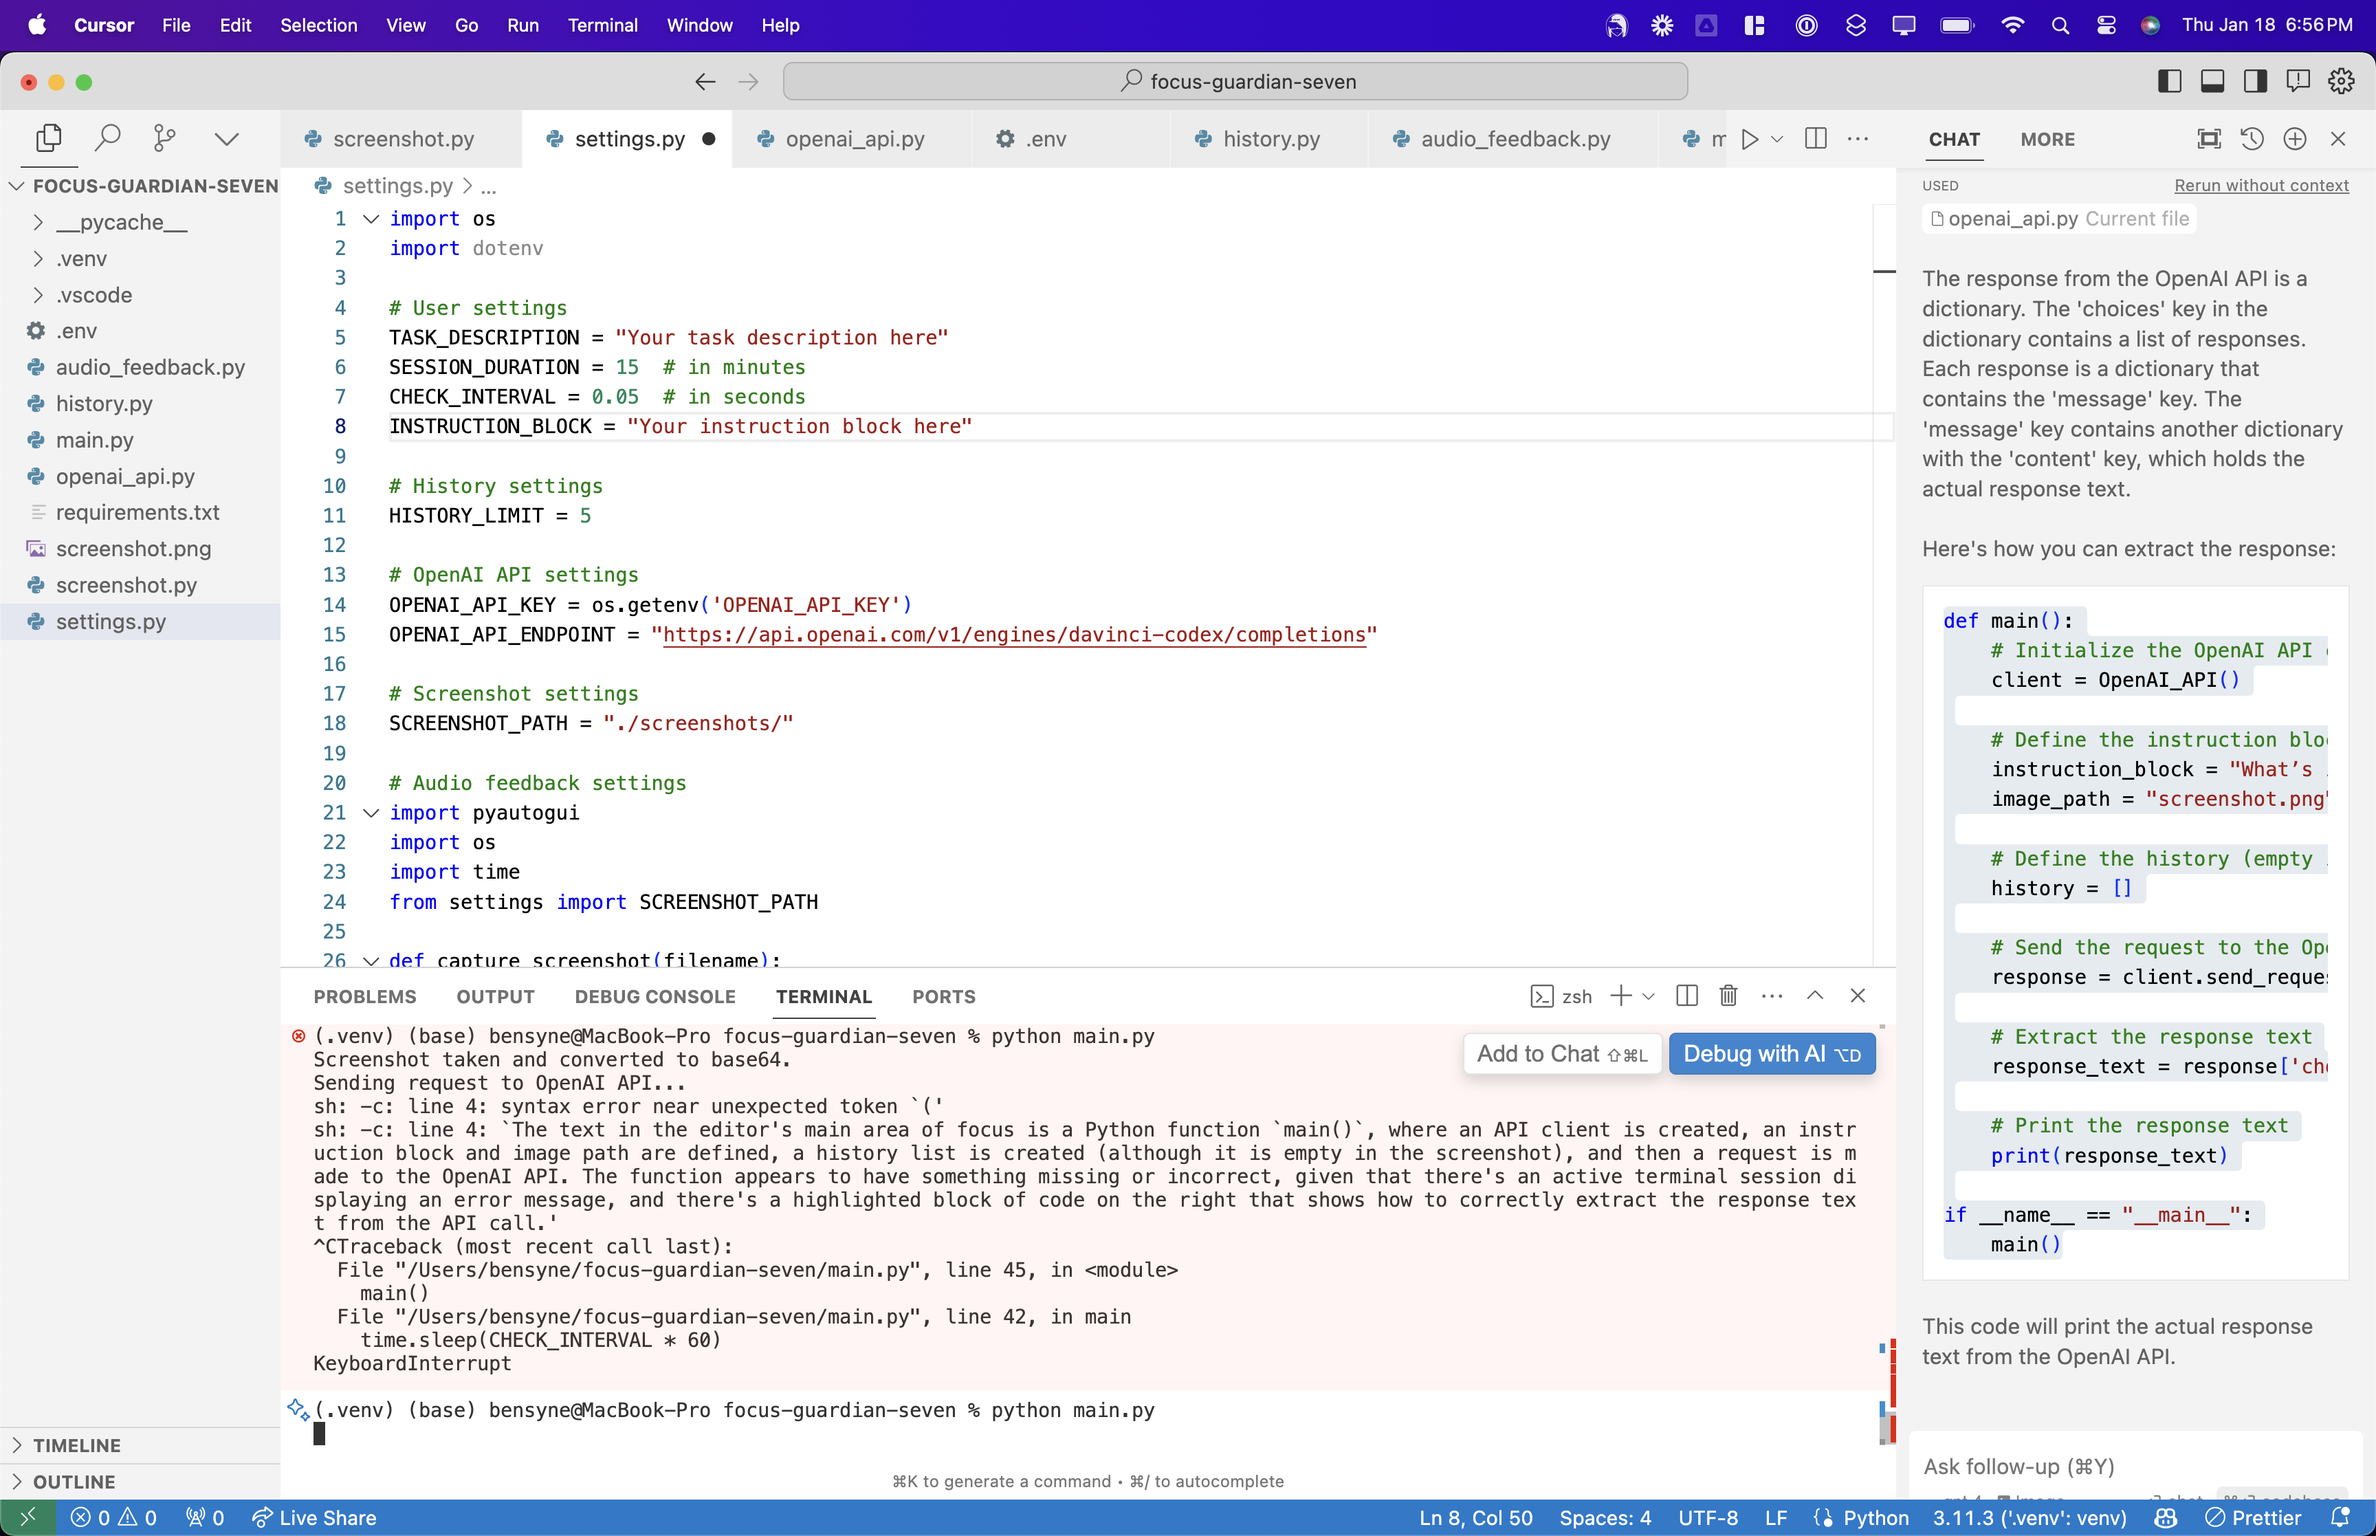
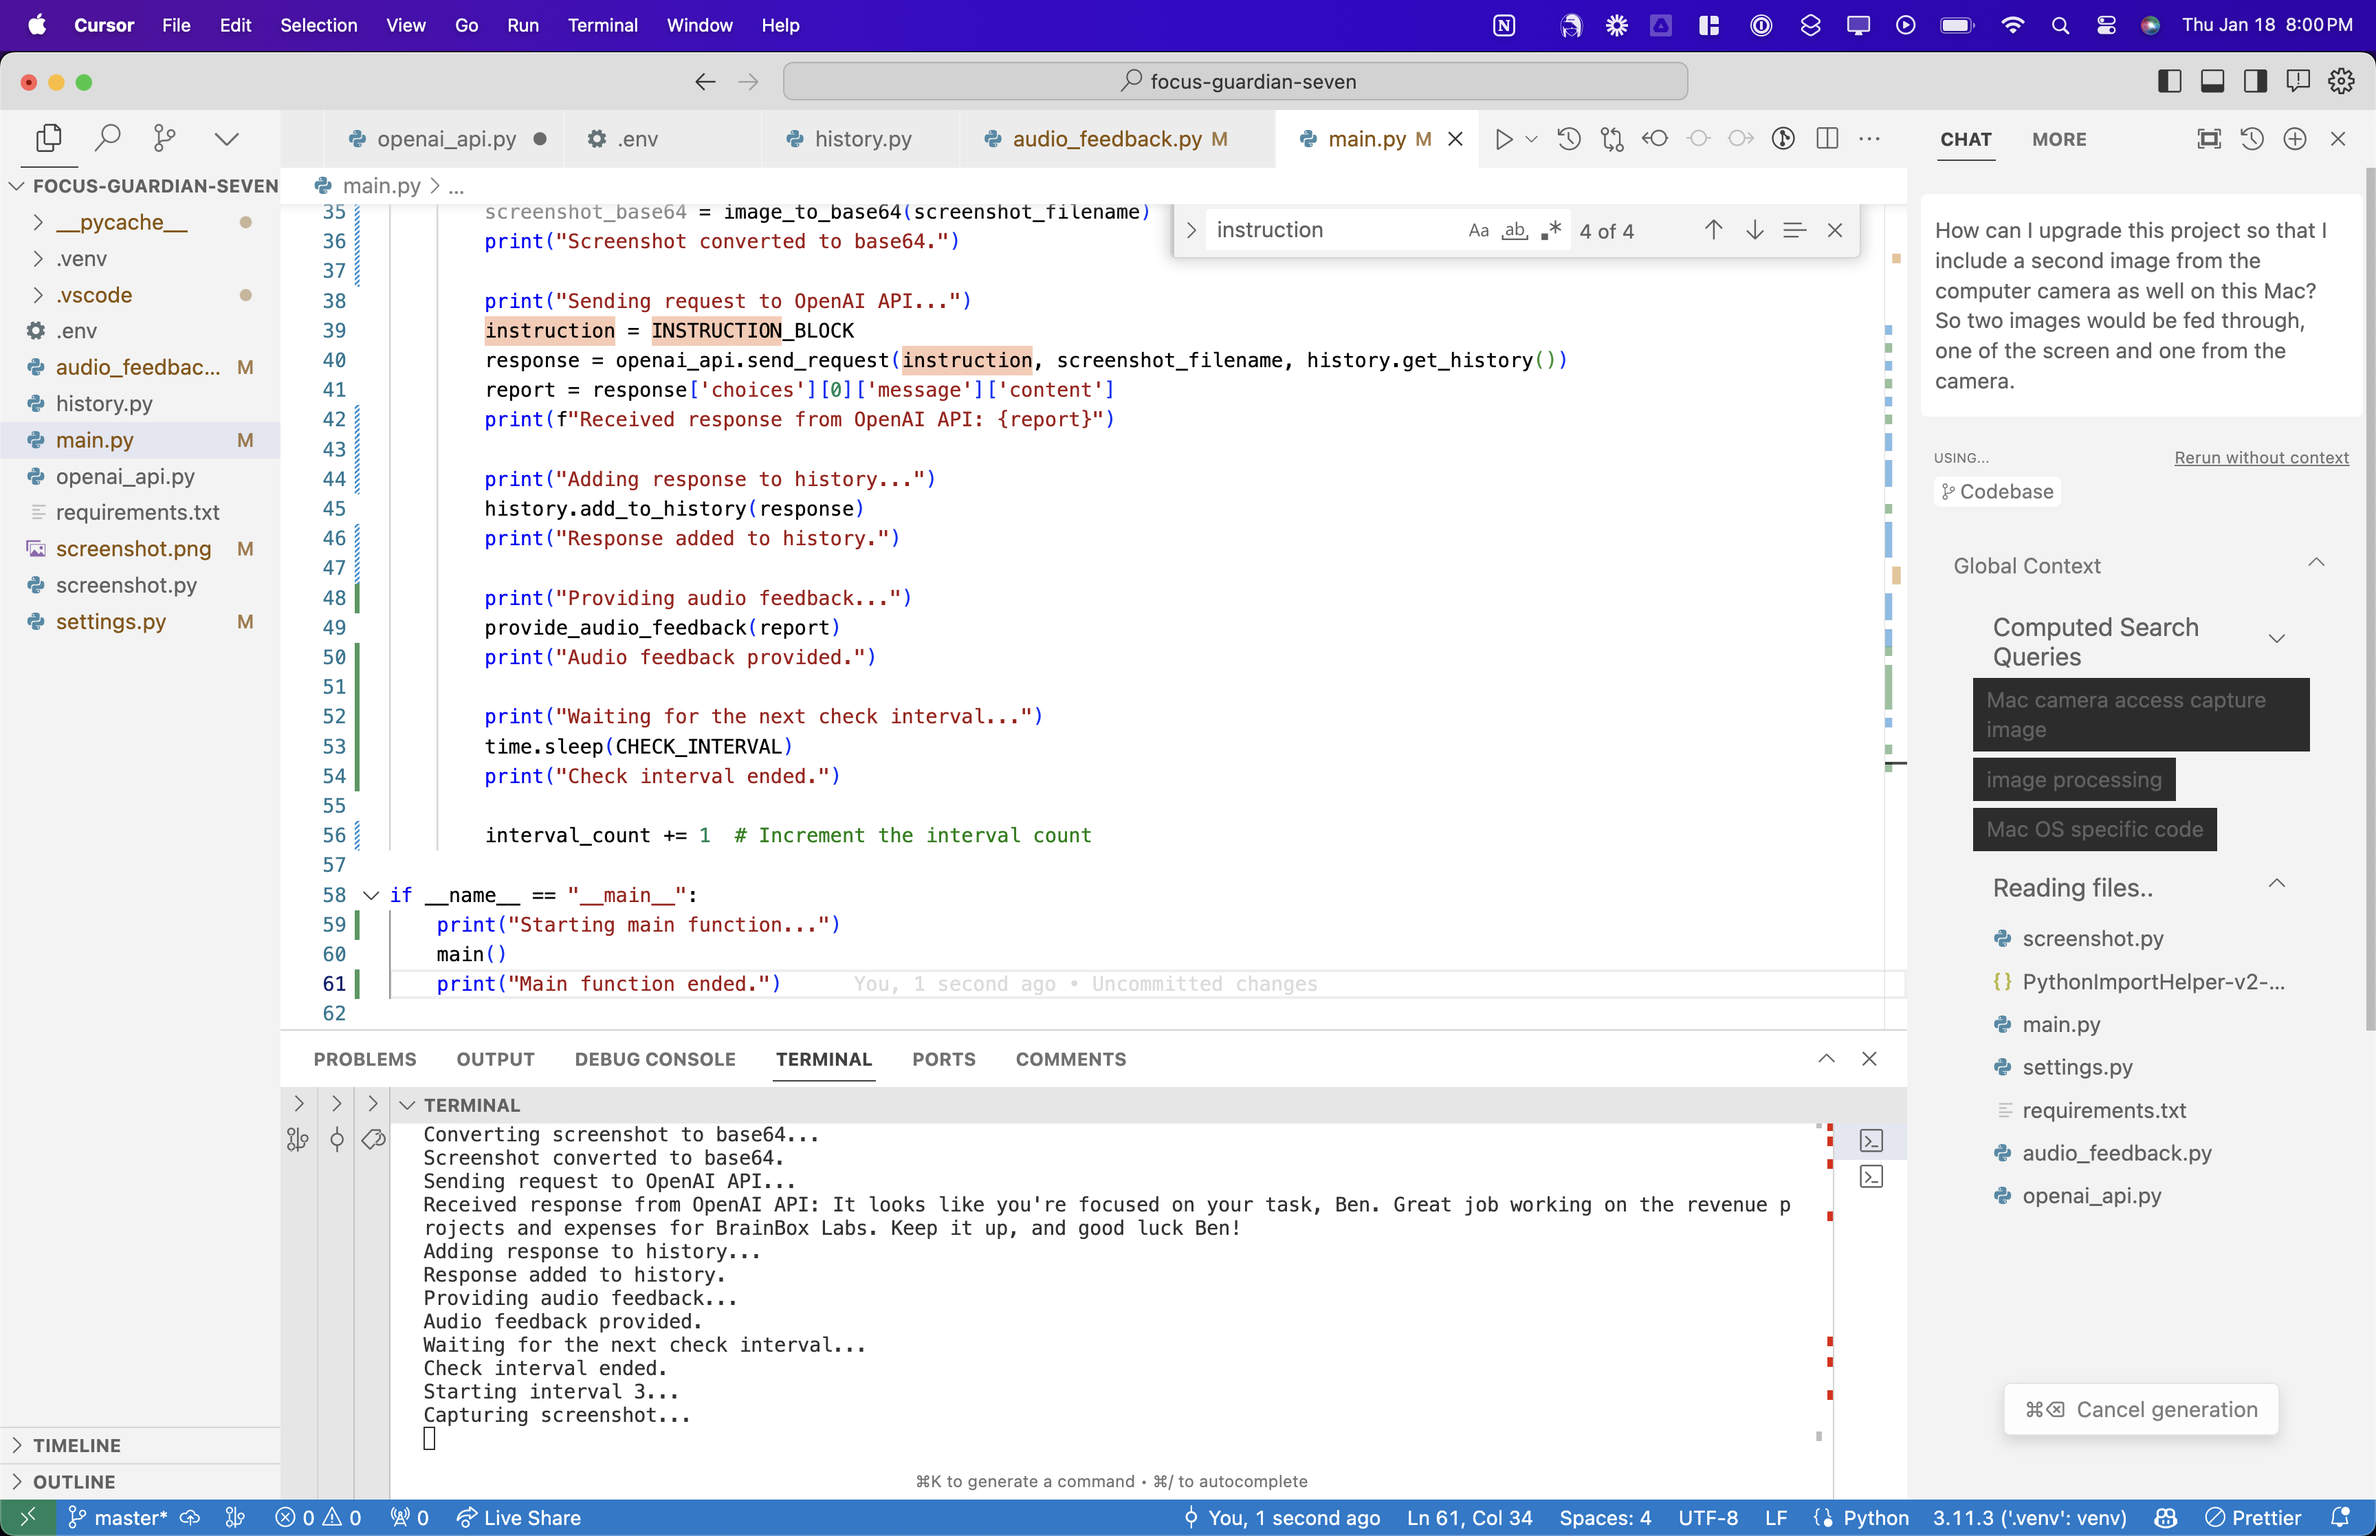
the main app is working

diff --git a/settings.py b/settings.py
@@ -2,10 +2,24 @@ import os
 import dotenv
 
 # User settings
-TASK_DESCRIPTION = "Your task description here"
-SESSION_DURATION = 15  # in minutes
-CHECK_INTERVAL = 5  # in seconds
-INSTRUCTION_BLOCK = "Your instruction block here"
+TASK_DESCRIPTION = "google travel tips for thailand"
+SESSION_DURATION = 60000  # in minutes
+CHECK_INTERVAL = 60  # in seconds
+INSTRUCTION_BLOCK = """
+
+Your name is focus guardian, you are a guardian that helps people stay focused on their tasks.
+
+Ben the user is supposed to be doing the following task:
+
+TASK_DESCRIPTION = "using clickup, notion and the browser and google sheets, finish working on revenu projects and expenses for your business plan for your company brainbox labs"
+
+check if the user seems to be doing the right thing by looking at the image and seeing if what they have on screen seems to be associated with their task. If it isn't reply with a simple message reminded them to get back on track. If it does seem like what they are doing is on tasks, congradulate them on their focus on wish them luck.
+
+Be brief given that the user is trying to focus
+
+always end every message with, good luck Ben!
+
+"""
 
 # History settings
 HISTORY_LIMIT = 5
@@ -23,31 +37,31 @@ import os
 import time
 from settings import SCREENSHOT_PATH
 
-def capture_screenshot(filename):
-    """
-    Function to capture a screenshot and save it to the specified path.
-    """
-    # Ensure the screenshot directory exists
-    if not os.path.exists(SCREENSHOT_PATH):
-        os.makedirs(SCREENSHOT_PATH)
+# def capture_screenshot(filename):
+#     """
+#     Function to capture a screenshot and save it to the specified path.
+#     """
+#     # Ensure the screenshot directory exists
+#     if not os.path.exists(SCREENSHOT_PATH):
+#         os.makedirs(SCREENSHOT_PATH)
 
-    # Capture the screenshot
-    screenshot = pyautogui.screenshot()
+#     # Capture the screenshot
+#     screenshot = pyautogui.screenshot()
 
-    # Save the screenshot
-    screenshot.save(os.path.join(SCREENSHOT_PATH, filename))
+#     # Save the screenshot
+#     screenshot.save(os.path.join(SCREENSHOT_PATH, filename))
 
-def capture_screenshots(interval, duration):
-    """
-    Function to capture screenshots at regular intervals for a specified duration.
-    """
-    # Calculate the number of screenshots to take
-    num_screenshots = int(duration / interval)
+# def capture_screenshots(interval, duration):
+#     """
+#     Function to capture screenshots at regular intervals for a specified duration.
+#     """
+#     # Calculate the number of screenshots to take
+#     num_screenshots = int(duration / interval)
 
-    # Loop for the specified number of screenshots
-    for i in range(num_screenshots):
-        # Capture a screenshot
-        capture_screenshot(f"screenshot_{i+1}.png")
+#     # Loop for the specified number of screenshots
+#     for i in range(num_screenshots):
+#         # Capture a screenshot
+#         capture_screenshot(f"screenshot_{i+1}.png")
 
-        # Wait for the specified interval before taking the next screenshot
-        time.sleep(interval * 60)  # Convert minutes to seconds
+#         # Wait for the specified interval before taking the next screenshot
+#         time.sleep(interval * 60)  # Convert minutes to seconds

diff --git a/main.py b/main.py
@@ -9,38 +9,54 @@ import subprocess
 from audio_feedback import provide_audio_feedback
 
 def main():
-    # Initialize OpenAI API
+    print("Initializing OpenAI API...")
     openai_api = OpenAI_API()
+    print("OpenAI API initialized.")
 
-    # Initialize history
+    print("Initializing history...")
     history = History()
+    print("History initialized.")
 
-    # Calculate end time
+    print("Calculating end time...")
     end_time = datetime.now() + timedelta(minutes=SESSION_DURATION)
+    print(f"End time calculated: {end_time}")
 
-    # Main loop
+    print("Entering main loop...")
+    interval_count = 0  # Initialize interval count
     while datetime.now() < end_time:
-        # Capture screenshot
+        print(f"Starting interval {interval_count + 1}...")  # Print the interval count
+
+        print("Capturing screenshot...")
         screenshot_filename = "screenshot.png"
         take_screenshot(screenshot_filename)
+        print(f"Screenshot captured: {screenshot_filename}")
         
-        # screenshot_base64 = image_to_base64(screenshot_filename)
-        print("Screenshot taken and converted to base64.")
-        # Send screenshot to OpenAI API
+        print("Converting screenshot to base64...")
+        screenshot_base64 = image_to_base64(screenshot_filename)
+        print("Screenshot converted to base64.")
+        
         print("Sending request to OpenAI API...")
         instruction = INSTRUCTION_BLOCK
         response = openai_api.send_request(instruction, screenshot_filename, history.get_history())
         report = response['choices'][0]['message']['content']
-        # Add response to history
+        print(f"Received response from OpenAI API: {report}")
+
+        print("Adding response to history...")
         history.add_to_history(response)
+        print("Response added to history.")
 
-        # Provide audio feedback
-        
+        print("Providing audio feedback...")
         provide_audio_feedback(report)
+        print("Audio feedback provided.")
 
-        # Wait for the next check interval
-        time.sleep(CHECK_INTERVAL * 60)
+        print("Waiting for the next check interval...")
+        time.sleep(CHECK_INTERVAL)
+        print("Check interval ended.")
+
+        interval_count += 1  # Increment the interval count
 
 if __name__ == "__main__":
+    print("Starting main function...")
     main()
+    print("Main function ended.")
 

diff --git a/audio_feedback.py b/audio_feedback.py
@@ -5,6 +5,8 @@ def provide_audio_feedback(message):
     Function to provide audio feedback using the Mac's 'say' command.
     """
     try:
+        # Replace single quotes in the message with escaped single quotes
+        message = message.replace("'", "\\'")
         # Execute the 'say' command with the message
         os.system(f'say {message}')
     except Exception as e:
